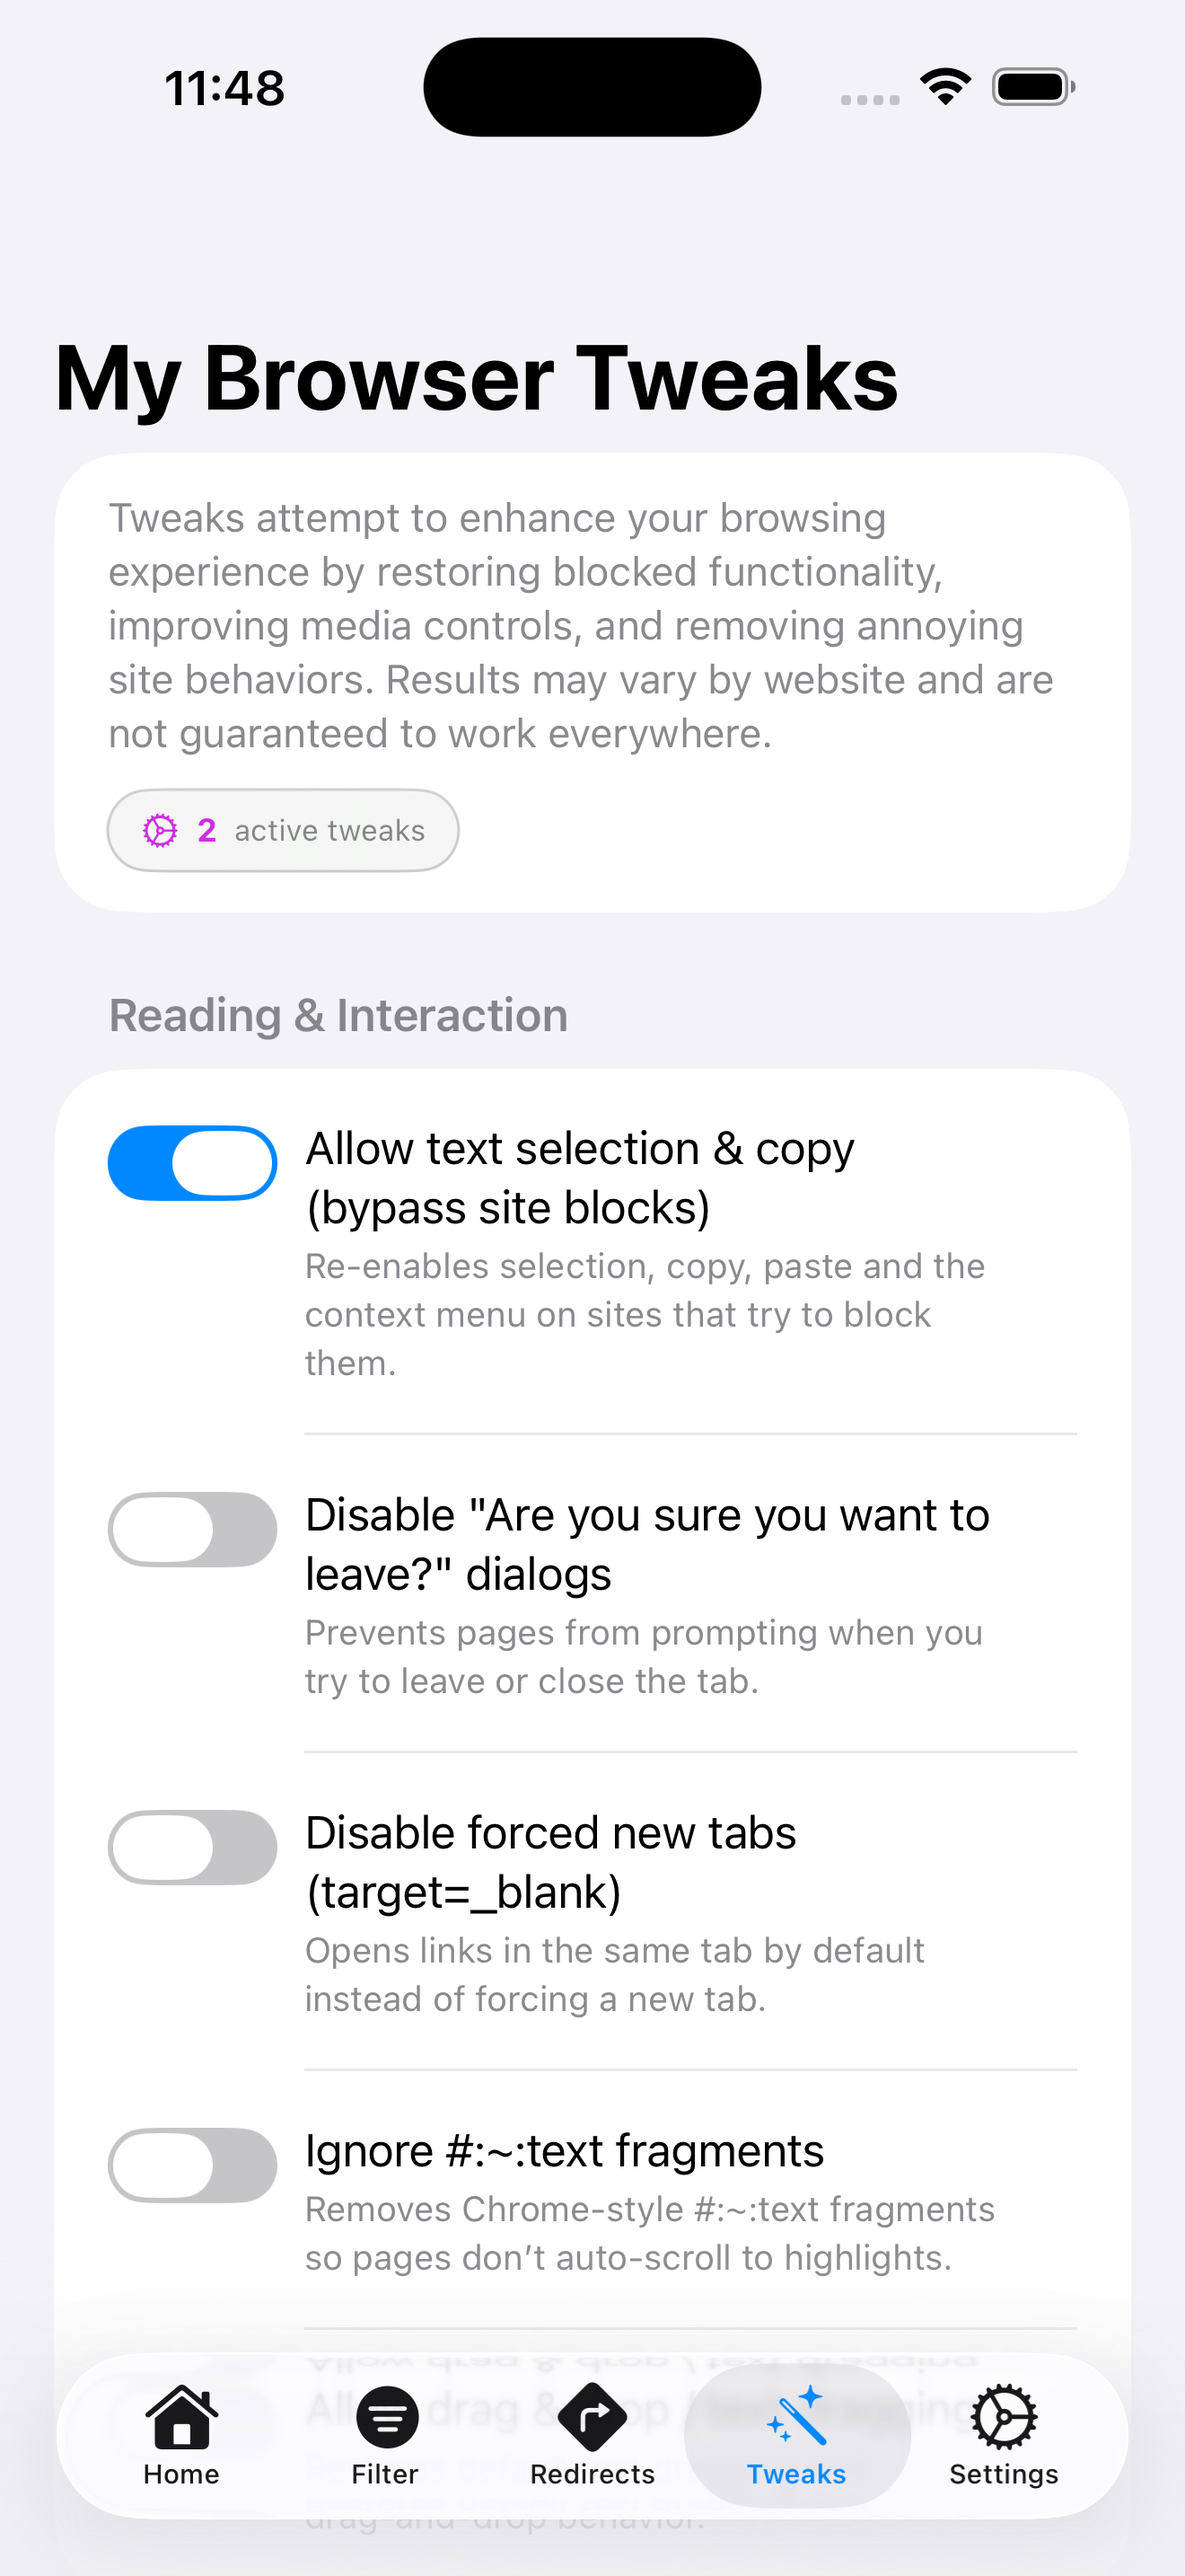
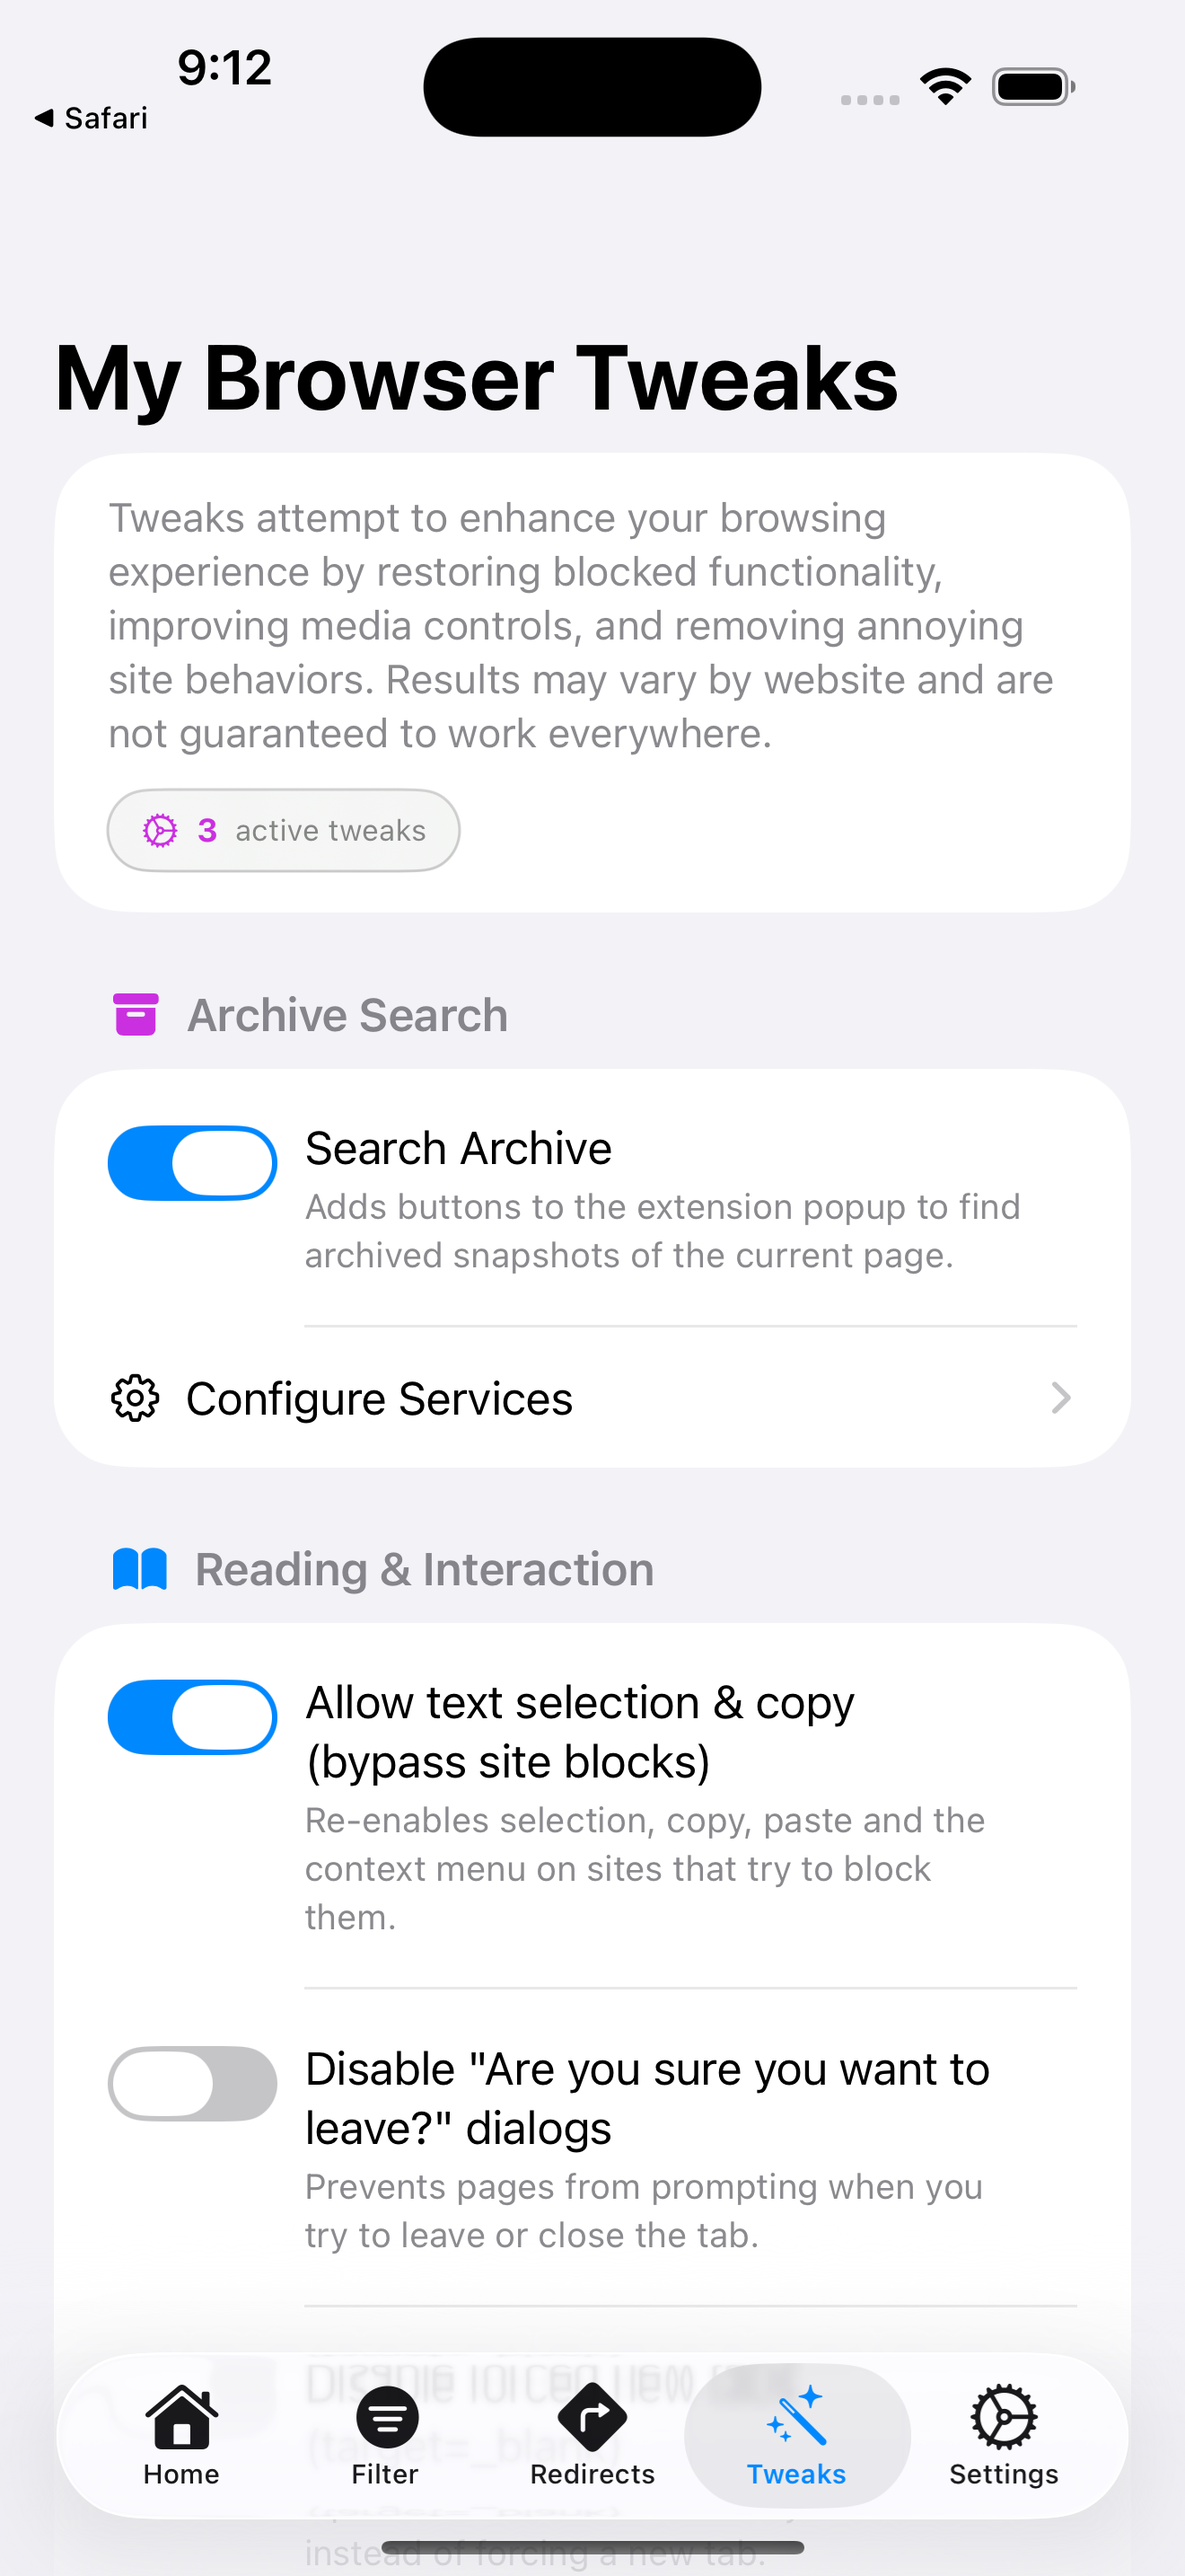
docs: add Archive Search feature to README
- New "Archive Search" section in Key Features highlighting one-tap access to web archives
- Listed all 5 supported archive services (Wayback Machine, Archive.is, Archive.today, Ghost Archive, Perma.cc)
- Emphasized user benefits: find cached versions of changed or deleted pages
- Explained customizable service selection and instant archive lookup

diff --git a/README.md b/README.md
@@ -25,7 +25,13 @@ Crafted with the Liquid Glass design language, the entire experience feels light
 * **Remove Annoyances**: Disable "Are you sure you want to leave?" dialogs, prevent forced new tabs, and more
 * **Clean User Interface**: Completely redesigned interface with improved navigation and cleaner layouts
 
-## � Screenshots
+### 📦 Archive Search
+* **One-Tap Archive Access**: Quickly find cached versions of web pages directly from the extension popup
+* **Multiple Archive Services**: Choose from Wayback Machine, Archive.is, Archive.today, Ghost Archive, and Perma.cc
+* **Customizable Selection**: Enable only the archive services you prefer to use
+* **Find Lost Content**: View archived snapshots of changed or deleted pages with a single tap
+
+## 📱 Screenshots
 
 Experience the beautifully crafted interface across all key features:
 
